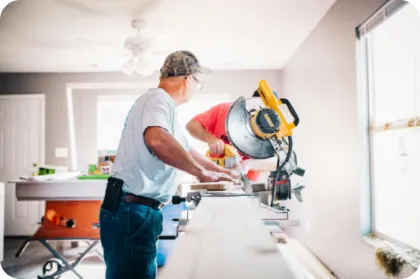
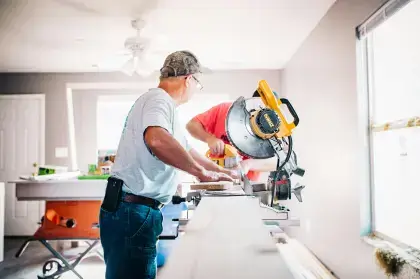
fix: Change border-raduis in about img

diff --git a/frontend/scss/adaptive.scss b/frontend/scss/adaptive.scss
@@ -710,10 +710,10 @@
       width: 720px;
     }
   }
-  .social-circles{
+  .social-circles {
     display: flex;
   }
-  .header__number{
+  .header__number {
     display: flex;
   }
   .menu-popup {
@@ -886,7 +886,11 @@
     input[type="radio"] {
     top: -100px;
   }
-
+  .info {
+    &__img {
+      border-radius: 12px;
+    }
+  }
   .form-wrapper {
     .form {
       margin-top: 166px;
@@ -1503,7 +1507,7 @@
       font-size: 18px;
     }
   }
-  .map{
+  .map {
     display: none;
   }
 
@@ -1517,10 +1521,10 @@
     padding: 0 32px;
     margin-bottom: 20px;
     padding-top: 20px;
-    & iframe{
+    & iframe {
       width: 100vw;
     }
-    & br{
+    & br {
       display: none;
     }
   }
@@ -1533,7 +1537,7 @@
     font-size: 20px;
   }
   .map__daily,
-  .map__networks{
+  .map__networks {
     padding-left: 20px;
     display: inline-block;
   }
@@ -1544,16 +1548,16 @@
   .map__social,
   .map__mail,
   .map__social-networks,
-  .map__fromto{
+  .map__fromto {
     margin-bottom: 8px;
     padding-left: 20px;
   }
-  .map__address{
+  .map__address {
     margin-bottom: 20px;
     display: inline-block;
     padding-left: 20px;
   }
-  .reviews{
+  .reviews {
     padding-top: 32px;
   }
   .reviews__heading {
@@ -1761,7 +1765,7 @@
     gap: 16px;
     position: relative;
     z-index: 10;
-    &.active{
+    &.active {
       display: flex;
     }
   }
@@ -1861,29 +1865,30 @@
     font-size: 28px;
   }
   .form-wrapper .form__left-parameters-area-input,
-  .form-wrapper .form__right-inputs-name, .form-wrapper .form__right-inputs-phone,
-  .form-wrapper .form__right-inputs .comment__textarea{
+  .form-wrapper .form__right-inputs-name,
+  .form-wrapper .form__right-inputs-phone,
+  .form-wrapper .form__right-inputs .comment__textarea {
     font-size: 20px;
   }
-  .form-wrapper .form__left-results-price{
+  .form-wrapper .form__left-results-price {
     font-size: 26px;
   }
-  .form-wrapper .form__right-send__button{
+  .form-wrapper .form__right-send__button {
     height: 46px;
   }
-  .form-wrapper .form__right-inputs .comment__textarea{
+  .form-wrapper .form__right-inputs .comment__textarea {
     height: 188px;
   }
-  .company-description__photo{
+  .company-description__photo {
     height: 416px;
   }
 }
-@media screen and (max-width: 559px){
-  .header__image-logo{
+@media screen and (max-width: 559px) {
+  .header__image-logo {
     width: 74px;
     height: 25px;
   }
-  .header__hamburger{
+  .header__hamburger {
     width: 25px;
     height: 25px;
   }
@@ -1923,7 +1928,7 @@
       max-width: 100%;
       padding: 0 20px;
     }
-    &__extra{
+    &__extra {
       width: 100%;
     }
     & .assess__heading {
@@ -2033,7 +2038,7 @@
     margin-right: 0;
     box-shadow: none;
   }
-  .reviews__box{
+  .reviews__box {
     gap: 0;
   }
   .reviews__containter {
@@ -2084,13 +2089,13 @@
   .table-adaptive__list {
     padding: 16px 20px;
   }
-  .costs__info{
+  .costs__info {
     width: 100%;
   }
-  .costs__info-text{
+  .costs__info-text {
     width: 100%;
   }
-  .costs__info-title{
+  .costs__info-title {
     text-align: center;
   }
   .costs__info-img_coin {
@@ -2120,16 +2125,16 @@
     font-size: 20px;
     padding: 0 12px;
   }
-  .reviews__box{
+  .reviews__box {
     margin-bottom: 0;
   }
-  .reviews__box-item{
+  .reviews__box-item {
     margin-bottom: 16px;
   }
-  .company-description__photo{
+  .company-description__photo {
     height: 280px;
   }
-  .menu-popup{
+  .menu-popup {
     width: 100%;
   }
 }
@@ -2140,14 +2145,13 @@
   }
 }
 @media screen and (max-width: 400px) {
-  .header__number{
-    &-tel{
+  .header__number {
+    &-tel {
       font-weight: bold;
       font-size: 18px;
     }
-    &-info{
+    &-info {
       font-size: 10px;
     }
   }
-  
 }

diff --git a/frontend/css/style.css b/frontend/css/style.css
@@ -1036,6 +1036,9 @@
   flex-direction: column;
   gap: 24px;
 }
+.info__img {
+  border-radius: 20px;
+}
 .info__desc {
   color: #212738;
   font-size: 24px;
@@ -2885,6 +2888,9 @@ a {
   .form-wrapper .form__left-parameters-count-radio-container input[type=radio] {
     top: -100px;
   }
+  .info__img {
+    border-radius: 12px;
+  }
   .form-wrapper .form {
     margin-top: 166px;
   }
@@ -3837,7 +3843,8 @@ a {
     font-size: 28px;
   }
   .form-wrapper .form__left-parameters-area-input,
-  .form-wrapper .form__right-inputs-name, .form-wrapper .form__right-inputs-phone,
+  .form-wrapper .form__right-inputs-name,
+  .form-wrapper .form__right-inputs-phone,
   .form-wrapper .form__right-inputs .comment__textarea {
     font-size: 20px;
   }

diff --git a/frontend/scss/components/main.scss b/frontend/scss/components/main.scss
@@ -66,7 +66,7 @@
       color: $black;
       cursor: pointer;
       transition: border 0.3s;
-      &.active{
+      &.active {
         background: $orange;
         color: $white;
         border: 2px solid $orange;
@@ -78,11 +78,10 @@
   }
   &__table {
     z-index: 5;
-    &-adaptive{
+    &-adaptive {
       display: none;
     }
   }
-
 }
 .table {
   display: flex;
@@ -124,7 +123,7 @@
     flex-direction: column;
     gap: 12px;
     display: none;
-    &.active{
+    &.active {
       display: flex;
     }
   }

diff --git a/frontend/scss/components/about.scss b/frontend/scss/components/about.scss
@@ -10,6 +10,9 @@
     flex-direction: column;
     gap: 24px;
   }
+  &__img {
+    border-radius: 20px;
+  }
   &__desc {
     color: $black;
     font-size: 24px;
